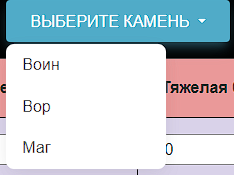
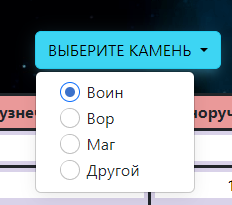
added another stone choose fix

diff --git a/src/main.js b/src/main.js
@@ -3,6 +3,7 @@ import races from './js/races.js';
 import stones from "./js/stones.js";
 import * as change_stats_funcs from './js/change_stats_funcs.js'
 import * as lp_calc_funcs from './js/lp_calc_funcs.js';
+import {chosen_stone} from "./js/chosen_stone.js";
 
 
 // константы для экспы
@@ -17,154 +18,13 @@ let allGoldTable = document.getElementById('allGoldTable');
 export let allLPTable = document.getElementById('allLPTable');
 
 // выбранный камень для отображения в модалке расчета
-let chosenStone = document.getElementById('chosenStone');
+export let chosenStone = document.getElementById('chosenStone');
 
 // лп за перки
 let perks_lp_cost;
 // голды за перки
 let perks_gold_cost;
 
-
-// Проверка выбранного камня
-// Получаем все radio кнопки в форме
-let radioButtons = document.getElementsByName('stoneClass');
-let lastSelectedStone; // переменная для хранения последней выбранной радиокнопки
-radioButtons.forEach(function (radioButton) {
-    radioButton.addEventListener('change', function () {
-        if (radioButton.checked) {
-            // console.log(radioButton.value);
-
-            // вычитаем 5 из поля последней выбранной кнопки (если она есть)
-            if (lastSelectedStone) {
-                switch (lastSelectedStone.value) {
-                    case 'warrior':
-                        stones.Blacksmith.value = Number(stones.Blacksmith.value) - 5;
-                        stones.OneHandedWeapon.value = Number(stones.OneHandedWeapon.value) - 5;
-                        stones.HeavyArmor.value = Number(stones.HeavyArmor.value) - 5;
-                        stones.TwoHandedWeapon.value = Number(stones.TwoHandedWeapon.value) - 5;
-                        stones.Shooting.value = Number(stones.Shooting.value) - 5;
-                        stones.Blocking.value = Number(stones.Blocking.value) - 5;
-                        break;
-                    case 'mage':
-                        // здесь нужно написать вычитание 5 из полей для случая "mage"
-                        stones.Illusion.value = Number(stones.Illusion.value) - 5;
-                        stones.Destruction.value = Number(stones.Destruction.value) - 5;
-                        stones.Witchcraft.value = Number(stones.Witchcraft.value) - 5;
-                        stones.Recovery.value = Number(stones.Recovery.value) - 5;
-                        stones.Change.value = Number(stones.Change.value) - 5;
-                        stones.Enchantment.value = Number(stones.Enchantment.value) - 5;
-                        break;
-                    case 'thief':
-                        // здесь нужно написать вычитание 5 из полей для случая "rogue"
-                        stones.Evasion.value = Number(stones.Evasion.value) - 5;
-                        stones.Stealth.value = Number(stones.Stealth.value) - 5;
-                        stones.Breaking.value = Number(stones.Breaking.value) - 5;
-                        stones.Pickpocketing.value = Number(stones.Pickpocketing.value) - 5;
-                        stones.Speech.value = Number(stones.Speech.value) - 5;
-                        stones.Alchemy.value = Number(stones.Alchemy.value) - 5;
-                        break;
-                    case 'stoneAnother':
-                        // здесь нужно написать вычитание 5 из полей для случая "rogue"
-                        stones.Evasion.value = Number(stones.Evasion.value) - 5;
-                        stones.Stealth.value = Number(stones.Stealth.value) - 5;
-                        stones.Breaking.value = Number(stones.Breaking.value) - 5;
-                        stones.Pickpocketing.value = Number(stones.Pickpocketing.value) - 5;
-                        stones.Speech.value = Number(stones.Speech.value) - 5;
-                        stones.Alchemy.value = Number(stones.Alchemy.value) - 5;
-
-                        // здесь нужно написать вычитание 5 из полей для случая "mage"
-                        stones.Illusion.value = Number(stones.Illusion.value) - 5;
-                        stones.Destruction.value = Number(stones.Destruction.value) - 5;
-                        stones.Witchcraft.value = Number(stones.Witchcraft.value) - 5;
-                        stones.Recovery.value = Number(stones.Recovery.value) - 5;
-                        stones.Change.value = Number(stones.Change.value) - 5;
-                        stones.Enchantment.value = Number(stones.Enchantment.value) - 5;
-
-                        stones.Blacksmith.value = Number(stones.Blacksmith.value) - 5;
-                        stones.OneHandedWeapon.value = Number(stones.OneHandedWeapon.value) - 5;
-                        stones.HeavyArmor.value = Number(stones.HeavyArmor.value) - 5;
-                        stones.TwoHandedWeapon.value = Number(stones.TwoHandedWeapon.value) - 5;
-                        stones.Shooting.value = Number(stones.Shooting.value) - 5;
-                        stones.Blocking.value = Number(stones.Blocking.value) - 5;
-
-                        break;
-                }
-            }
-            // добавляем 5 к полю выбранной кнопки
-            switch (radioButton.value) {
-                case 'warrior':
-                    chosenStone.innerText = 'Воин';
-                    chosenStone.classList.remove('text-danger');
-                    chosenStone.classList.add('text-success');
-                    stones.Blacksmith.value = Number(stones.Blacksmith.value) + 5;
-                    stones.OneHandedWeapon.value = Number(stones.OneHandedWeapon.value) + 5;
-                    stones.HeavyArmor.value = Number(stones.HeavyArmor.value) + 5;
-                    stones.TwoHandedWeapon.value = Number(stones.TwoHandedWeapon.value) + 5;
-                    stones.Shooting.value = Number(stones.Shooting.value) + 5;
-                    stones.Blocking.value = Number(stones.Blocking.value) + 5;
-                    break;
-                case 'mage':
-                    // здесь нужно написать добавление 5 к полям для случая "mage"
-                    chosenStone.innerText = 'Маг';
-                    chosenStone.classList.remove('text-danger');
-                    chosenStone.classList.add('text-success');
-                    stones.Illusion.value = Number(stones.Illusion.value) + 5;
-                    stones.Destruction.value = Number(stones.Destruction.value) + 5;
-                    stones.Witchcraft.value = Number(stones.Witchcraft.value) + 5;
-                    stones.Recovery.value = Number(stones.Recovery.value) + 5;
-                    stones.Change.value = Number(stones.Change.value) + 5;
-                    stones.Enchantment.value = Number(stones.Enchantment.value) + 5;
-                    break;
-                case 'thief':
-                    // здесь нужно написать добавление 5 к полям для случая "rogue"
-                    chosenStone.innerText = 'Вор';
-                    chosenStone.classList.remove('text-danger');
-                    chosenStone.classList.add('text-success');
-                    stones.Evasion.value = Number(stones.Evasion.value) + 5;
-                    stones.Stealth.value = Number(stones.Stealth.value) + 5;
-                    stones.Breaking.value = Number(stones.Breaking.value) + 5;
-                    stones.Pickpocketing.value = Number(stones.Pickpocketing.value) + 5;
-                    stones.Speech.value = Number(stones.Speech.value) + 5;
-                    stones.Alchemy.value = Number(stones.Alchemy.value) + 5;
-                    break;
-                case 'stoneAnother':
-                    // здесь нужно написать добавление 5 к полям для случая "rogue"
-                    chosenStone.innerText = 'Вор';
-                    chosenStone.classList.remove('text-danger');
-                    chosenStone.classList.add('text-success');
-                    stones.Evasion.value = Number(stones.Evasion.value) + 5;
-                    stones.Stealth.value = Number(stones.Stealth.value) + 5;
-                    stones.Breaking.value = Number(stones.Breaking.value) + 5;
-                    stones.Pickpocketing.value = Number(stones.Pickpocketing.value) + 5;
-                    stones.Speech.value = Number(stones.Speech.value) + 5;
-                    stones.Alchemy.value = Number(stones.Alchemy.value) + 5;
-
-                    // здесь нужно написать добавление 5 к полям для случая "mage"
-                    chosenStone.innerText = 'Маг';
-                    chosenStone.classList.remove('text-danger');
-                    chosenStone.classList.add('text-success');
-                    stones.Illusion.value = Number(stones.Illusion.value) + 5;
-                    stones.Destruction.value = Number(stones.Destruction.value) + 5;
-                    stones.Witchcraft.value = Number(stones.Witchcraft.value) + 5;
-                    stones.Recovery.value = Number(stones.Recovery.value) + 5;
-                    stones.Change.value = Number(stones.Change.value) + 5;
-                    stones.Enchantment.value = Number(stones.Enchantment.value) + 5;
-
-                    chosenStone.innerText = 'Воин';
-                    chosenStone.classList.remove('text-danger');
-                    chosenStone.classList.add('text-success');
-                    stones.Blacksmith.value = Number(stones.Blacksmith.value) + 5;
-                    stones.OneHandedWeapon.value = Number(stones.OneHandedWeapon.value) + 5;
-                    stones.HeavyArmor.value = Number(stones.HeavyArmor.value) + 5;
-                    stones.TwoHandedWeapon.value = Number(stones.TwoHandedWeapon.value) + 5;
-                    stones.Shooting.value = Number(stones.Shooting.value) + 5;
-                    stones.Blocking.value = Number(stones.Blocking.value) + 5;
-                    break;
-            }
-            lastSelectedStone = radioButton; // сохраняем текущую кнопку в lastSelected
-        }
-    });
-});
 
 
 // формула расчета лп
@@ -229,6 +89,7 @@ function calculate() {
         return console.log('error');
     }
 }
+
 
 // расчет всех ячеек с лп с таблицы
 function getAllLPFromTable() {
@@ -298,10 +159,9 @@ function calcLpAndGold(currentSkillValue, countValue, needLp, needGold) {
     needLp.innerHTML = CalculateLPCost(Number(currentSkillValue), minus);
     needGold.innerHTML = CalculateGCost(Number(currentSkillValue), minus);
 }
-
+chosen_stone();
 function formula() {
 
-    // расчет лп + золота воин
     calcLpAndGold(stones.Blacksmith.value, stones.BlacksmithValue.value, stones.needLPBlacksmith, stones.needGoldBlacksmith);
     calcLpAndGold(stones.OneHandedWeapon.value, stones.OneHandedWeaponValue.value, stones.needLPOneHandedWeapon, stones.needGoldOneHandedWeapon);
     calcLpAndGold(stones.HeavyArmor.value, stones.HeavyArmorValue.value, stones.needLPHeavyArmor, stones.needGoldHeavyArmor);
@@ -332,8 +192,10 @@ function formula() {
     getAllLPFromTable();
     // расчет всех ячеек с золотом со всей таблицы
     getAllGoldFromTable();
-
+    // расчет уровня исходя из количества лп
     lp_calc_funcs.calculate_needed_lvl();
+
+
 }
 
 races.raceArgo.addEventListener('click', change_stats_funcs.changeArgoStats);

diff --git a/src/js/chosen_stone.js b/src/js/chosen_stone.js
@@ -1,0 +1,163 @@
+import stones from "./stones.js";
+import {chosenStone} from "../main.js";
+
+export function chosen_stone() {
+
+// Проверка выбранного камня
+// Получаем все radio кнопки в форме
+    let radioButtons = document.getElementsByName('stoneClass');
+    let lastSelectedStone; // переменная для хранения последней выбранной радиокнопки
+    radioButtons.forEach(function (radioButton) {
+        radioButton.addEventListener('change', function () {
+                if (radioButton.checked) {
+                    // console.log(radioButton.value);
+
+                    // вычитаем 5 из поля последней выбранной кнопки (если она есть)
+                    if (lastSelectedStone) {
+                        switch (lastSelectedStone.value) {
+                            case 'warrior':
+                                stones.Blacksmith.value = Number(stones.Blacksmith.value) - 5;
+                                stones.OneHandedWeapon.value = Number(stones.OneHandedWeapon.value) - 5;
+                                stones.HeavyArmor.value = Number(stones.HeavyArmor.value) - 5;
+                                stones.TwoHandedWeapon.value = Number(stones.TwoHandedWeapon.value) - 5;
+                                stones.Shooting.value = Number(stones.Shooting.value) - 5;
+                                stones.Blocking.value = Number(stones.Blocking.value) - 5;
+                                break;
+                            case 'mage':
+                                // здесь нужно написать вычитание 5 из полей для случая "mage"
+                                stones.Illusion.value = Number(stones.Illusion.value) - 5;
+                                stones.Destruction.value = Number(stones.Destruction.value) - 5;
+                                stones.Witchcraft.value = Number(stones.Witchcraft.value) - 5;
+                                stones.Recovery.value = Number(stones.Recovery.value) - 5;
+                                stones.Change.value = Number(stones.Change.value) - 5;
+                                stones.Enchantment.value = Number(stones.Enchantment.value) - 5;
+                                break;
+                            case 'thief':
+                                // здесь нужно написать вычитание 5 из полей для случая "rogue"
+                                stones.Evasion.value = Number(stones.Evasion.value) - 5;
+                                stones.Stealth.value = Number(stones.Stealth.value) - 5;
+                                stones.Breaking.value = Number(stones.Breaking.value) - 5;
+                                stones.Pickpocketing.value = Number(stones.Pickpocketing.value) - 5;
+                                stones.Speech.value = Number(stones.Speech.value) - 5;
+                                stones.Alchemy.value = Number(stones.Alchemy.value) - 5;
+                                break;
+                            case 'stoneAnother':
+                                // здесь нужно написать добавление 5 к полям для случая "rogue"
+                                chosenStone.innerText = 'Другой';
+                                chosenStone.classList.remove('text-danger');
+                                chosenStone.classList.add('text-success');
+                                stones.Evasion.value = Number(stones.Evasion.value) - 5;
+                                stones.Stealth.value = Number(stones.Stealth.value) - 5;
+                                stones.Breaking.value = Number(stones.Breaking.value) - 5;
+                                stones.Pickpocketing.value = Number(stones.Pickpocketing.value) - 5;
+                                stones.Speech.value = Number(stones.Speech.value) - 5;
+                                stones.Alchemy.value = Number(stones.Alchemy.value) - 5;
+
+                                // здесь нужно написать вычитание 5 из полей для случая "mage"
+                                stones.Illusion.value = Number(stones.Illusion.value) - 5;
+                                stones.Destruction.value = Number(stones.Destruction.value) - 5;
+                                stones.Witchcraft.value = Number(stones.Witchcraft.value) - 5;
+                                stones.Recovery.value = Number(stones.Recovery.value) - 5;
+                                stones.Change.value = Number(stones.Change.value) - 5;
+                                stones.Enchantment.value = Number(stones.Enchantment.value) - 5;
+
+                                stones.Blacksmith.value = Number(stones.Blacksmith.value) - 5;
+                                stones.OneHandedWeapon.value = Number(stones.OneHandedWeapon.value) - 5;
+                                stones.HeavyArmor.value = Number(stones.HeavyArmor.value) - 5;
+                                stones.TwoHandedWeapon.value = Number(stones.TwoHandedWeapon.value) - 5;
+                                stones.Shooting.value = Number(stones.Shooting.value) - 5;
+                                stones.Blocking.value = Number(stones.Blocking.value) - 5;
+
+                                break;
+
+                            default:
+                                // console.log('default stone');
+                                // здесь нужно написать добавление 5 к полям для случая "rogue"
+                                chosenStone.innerText = 'Другой';
+                                chosenStone.classList.remove('text-danger');
+                                chosenStone.classList.add('text-success');
+                                break;
+                        }
+                    }
+                    // добавляем 5 к полю выбранной кнопки
+                    switch (radioButton.value) {
+                        case 'warrior':
+                            chosenStone.innerText = 'Воин';
+                            chosenStone.classList.remove('text-danger');
+                            chosenStone.classList.add('text-success');
+                            stones.Blacksmith.value = Number(stones.Blacksmith.value) + 5;
+                            stones.OneHandedWeapon.value = Number(stones.OneHandedWeapon.value) + 5;
+                            stones.HeavyArmor.value = Number(stones.HeavyArmor.value) + 5;
+                            stones.TwoHandedWeapon.value = Number(stones.TwoHandedWeapon.value) + 5;
+                            stones.Shooting.value = Number(stones.Shooting.value) + 5;
+                            stones.Blocking.value = Number(stones.Blocking.value) + 5;
+                            break;
+                        case 'mage':
+                            // здесь нужно написать добавление 5 к полям для случая "mage"
+                            chosenStone.innerText = 'Маг';
+                            chosenStone.classList.remove('text-danger');
+                            chosenStone.classList.add('text-success');
+                            stones.Illusion.value = Number(stones.Illusion.value) + 5;
+                            stones.Destruction.value = Number(stones.Destruction.value) + 5;
+                            stones.Witchcraft.value = Number(stones.Witchcraft.value) + 5;
+                            stones.Recovery.value = Number(stones.Recovery.value) + 5;
+                            stones.Change.value = Number(stones.Change.value) + 5;
+                            stones.Enchantment.value = Number(stones.Enchantment.value) + 5;
+                            break;
+                        case 'thief':
+                            // здесь нужно написать добавление 5 к полям для случая "rogue"
+                            chosenStone.innerText = 'Вор';
+                            chosenStone.classList.remove('text-danger');
+                            chosenStone.classList.add('text-success');
+                            stones.Evasion.value = Number(stones.Evasion.value) + 5;
+                            stones.Stealth.value = Number(stones.Stealth.value) + 5;
+                            stones.Breaking.value = Number(stones.Breaking.value) + 5;
+                            stones.Pickpocketing.value = Number(stones.Pickpocketing.value) + 5;
+                            stones.Speech.value = Number(stones.Speech.value) + 5;
+                            stones.Alchemy.value = Number(stones.Alchemy.value) + 5;
+                            break;
+                        case 'stoneAnother':
+                            // здесь нужно написать добавление 5 к полям для случая "rogue"
+                            chosenStone.innerText = 'Другой';
+                            chosenStone.classList.remove('text-danger');
+                            chosenStone.classList.add('text-success');
+                            stones.Evasion.value = Number(stones.Evasion.value) + 5;
+                            stones.Stealth.value = Number(stones.Stealth.value) + 5;
+                            stones.Breaking.value = Number(stones.Breaking.value) + 5;
+                            stones.Pickpocketing.value = Number(stones.Pickpocketing.value) + 5;
+                            stones.Speech.value = Number(stones.Speech.value) + 5;
+                            stones.Alchemy.value = Number(stones.Alchemy.value) + 5;
+
+
+                            stones.Illusion.value = Number(stones.Illusion.value) + 5;
+                            stones.Destruction.value = Number(stones.Destruction.value) + 5;
+                            stones.Witchcraft.value = Number(stones.Witchcraft.value) + 5;
+                            stones.Recovery.value = Number(stones.Recovery.value) + 5;
+                            stones.Change.value = Number(stones.Change.value) + 5;
+                            stones.Enchantment.value = Number(stones.Enchantment.value) + 5;
+
+
+                            stones.Blacksmith.value = Number(stones.Blacksmith.value) + 5;
+                            stones.OneHandedWeapon.value = Number(stones.OneHandedWeapon.value) + 5;
+                            stones.HeavyArmor.value = Number(stones.HeavyArmor.value) + 5;
+                            stones.TwoHandedWeapon.value = Number(stones.TwoHandedWeapon.value) + 5;
+                            stones.Shooting.value = Number(stones.Shooting.value) + 5;
+                            stones.Blocking.value = Number(stones.Blocking.value) + 5;
+                            break;
+                        default:
+                            // console.log('default stone');
+                            // здесь нужно написать добавление 5 к полям для случая "rogue"
+                            chosenStone.innerText = 'Другой';
+                            chosenStone.classList.remove('text-danger');
+                            chosenStone.classList.add('text-success');
+                            break;
+
+                    }
+                    lastSelectedStone = radioButton; // сохраняем текущую кнопку в lastSelected
+                }
+            }
+        )
+        ;
+    });
+
+}

diff --git a/index.html b/index.html
@@ -87,7 +87,7 @@
                                      aria-labelledby="list-profile-list">
                                     <span class="fw-bold">Выбираем нужный камень для персонажа: </span> <br>
                                     <img src="src/img/insruction2.png" alt="pic"> <br>
-                                    <span class="fw-bold">Если камень не: 'Вор', 'Воин', 'Маг', <br> тогда этот пункт пропускаем, посколько другие камни никак не повлияют на вычисления </span>
+                                    <span class="fw-bold">Если камень не: 'Вор', 'Воин', 'Маг', <br> тогда можно выбрать 'Другой' или ничего не трогать, это никак не повлияет на вычисления </span>
                                 </div>
                                 <div class="tab-pane fade" id="list-messages" role="tabpanel"
                                      aria-labelledby="list-messages-list">
